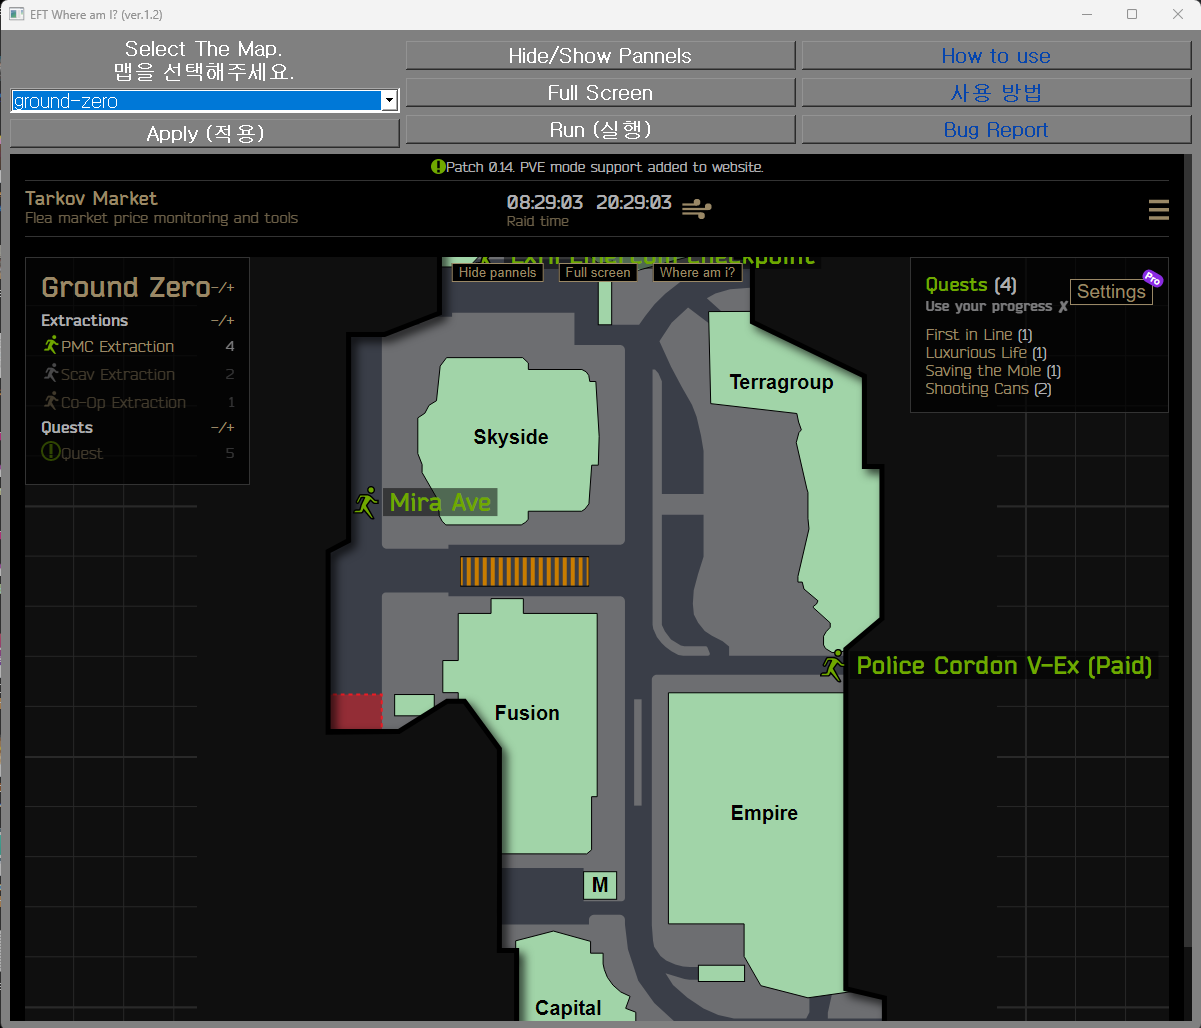
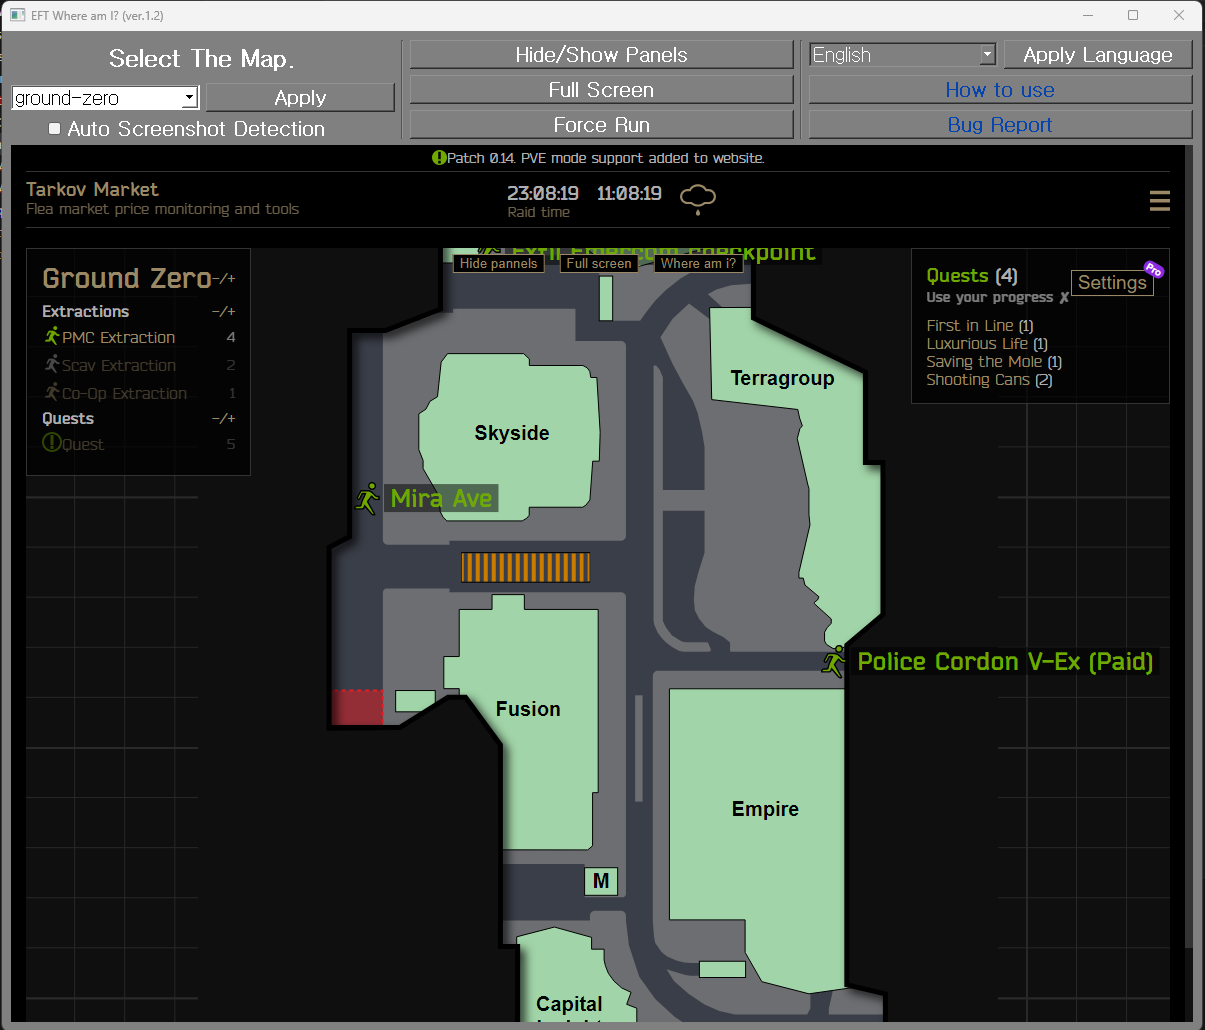
Update README.md

diff --git a/README.md b/README.md
@@ -9,25 +9,29 @@
 # eft-where-am-i
 [한국어](README_ko_kr.md)
 
-- A Python + GUI program that helps you easily use the `Maps` feature of `Tarkov-Market`.
-- Based on [Rok's post and source code](https://gall.dcinside.com/m/eft/2143712).
-- This program is licensed under the `MIT License` and **we are not responsible for any damages**(though the possibility is very low, including sanctions by EFT) **caused by this program**.
+- This is a Python + GUI program that helps you easily use the Maps feature of `Tarkov-Market`.
+- It is based on [Rok's post and source code](https://gall.dcinside.com/m/eft/2143712).
+- This program is licensed under the `MIT License` and **we are not responsible for any damage** (though highly unlikely, such as penalties from EFT) **caused by using this program**.
 
-## How to use
-**1. Choose a map.**
+## How to Use
+**1. Select a map.**
 
 <img src="assets/screenshot02.png" alt="screenshot02" width="800">
 
 After selecting a map, make sure to click the `Apply` button!
+<br />
 
-**2. Take a screenshot inside the Tarkov raid.**
-The default screenshot key in Tarkov is `PrtSc`. Please take note.
+**2. Take a screenshot while inside a Tarkov raid.**
+- The default screenshot key in Tarkov is `PrtSc`.
+- If you check the `Auto Screenshot Detection` checkbox, your location will automatically update each time you take a screenshot.
+- If you check the `Auto Screenshot Detection` checkbox, you can skip step 3.
+<br />
 
-**3. Press the `Run` button.**
+**3. Click the `Force Run` button.**
 
 <img src="assets/screenshot03.png" alt="screenshot03" width="800">
 
-Your location will be marked on the map as a red dot.
+A red dot will appear on the map to indicate your location.
 
-- If you want to know your updated location after moving, repeat steps 2 and 3.
-- Use the `Hide/Show Panels` or `Full Screen` buttons to view the map more clearly.
+- To update your location after moving, repeat steps 2 and 3.
+- You can click the `Hide/Show Panels` or `Full Screen` buttons to view the map more clearly.

diff --git a/README_ko_kr.md b/README_ko_kr.md
@@ -14,16 +14,20 @@
 ## 사용 방법
 **1. 맵을 골라주세요.**
 
-<img src="assets/screenshot02.png" alt="screenshot02" width="800">
+<img src="assets/screenshot02_ko.png" alt="screenshot02_ko" width="800">
 
 맵을 고른 후 꼭 `적용` 버튼을 눌러주세요!
+<br />
 
 **2. 타르코프 레이드 안에서 스크린샷을 찍어주세요.**
-타르코프의 기본 스크린샷 키는 `PrtSc`입니다. 참고하세요.
+- 타르코프의 기본 스크린샷 키는 `PrtSc`입니다.
+- `자동 스크린샷 감지` 체크박스를 체크하면 스크린샷을 찍을때마다 자동으로 위치가 업데이트 됩니다.
+- `자동 스크린샷 감지` 체크박스를 체크하면 3번은 하실 필요가 없습니다.
+<br />
 
-**3. `Run (실행)` 버튼을 눌러주세요.**
+**3. `강제 실행` 버튼을 눌러주세요.**
 
-<img src="assets/screenshot03.png" alt="screenshot03" width="800">
+<img src="assets/screenshot03_ko.png" alt="screenshot03_ko" width="800">
 
 빨간 점의 형태로 맵에 표시됩니다.
 
